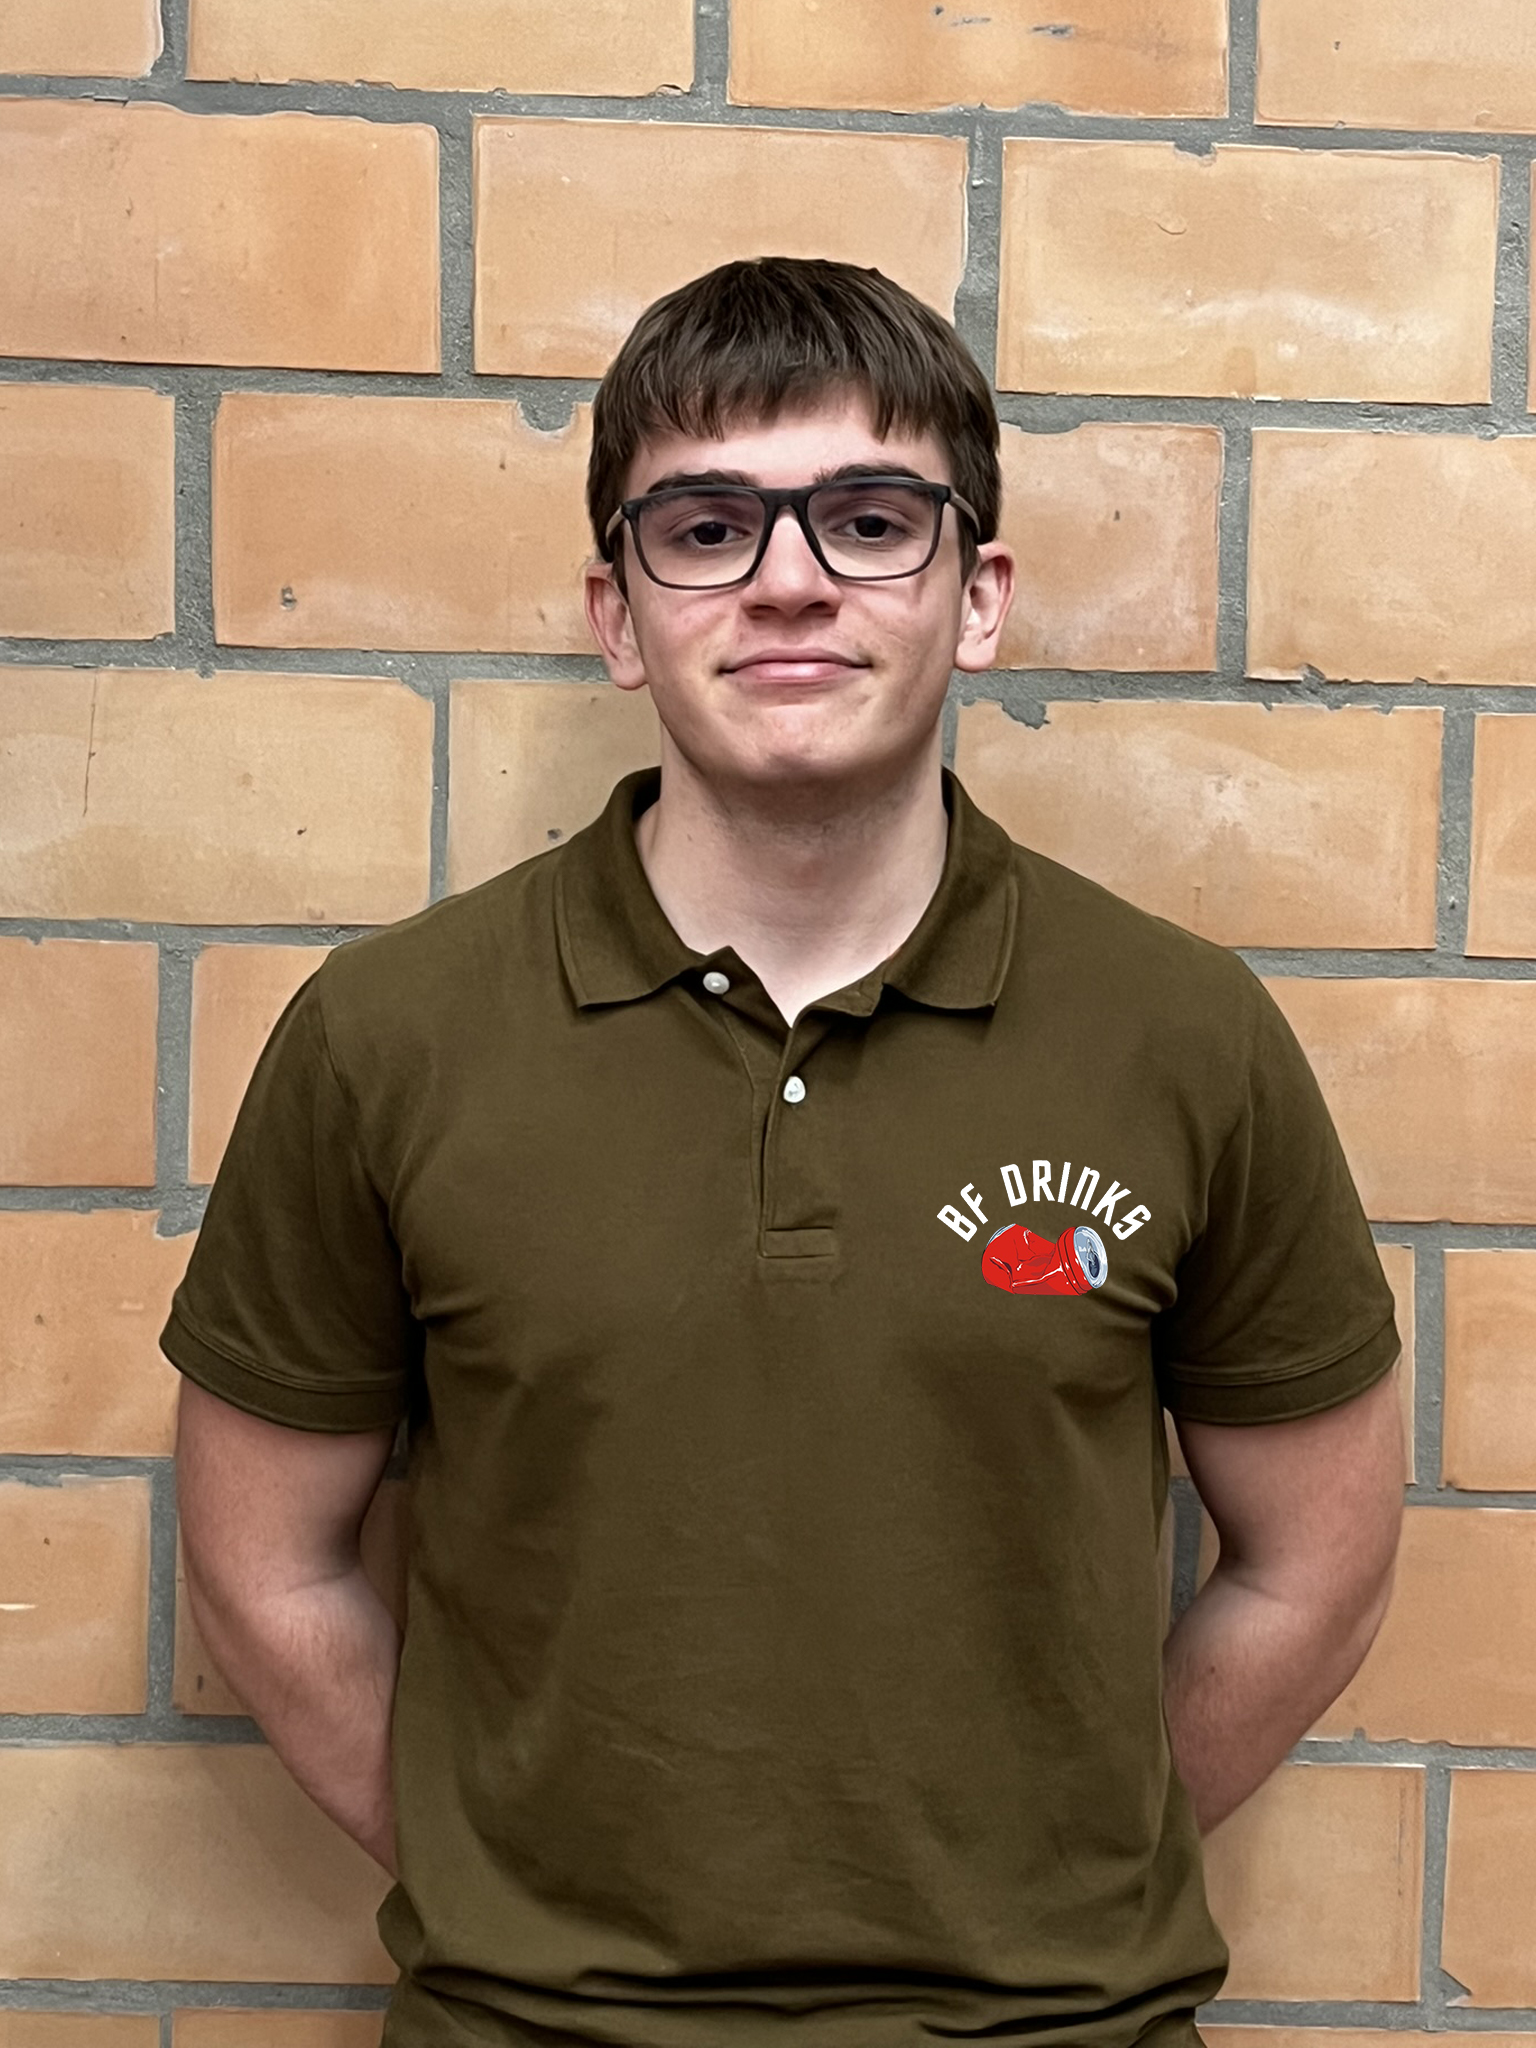
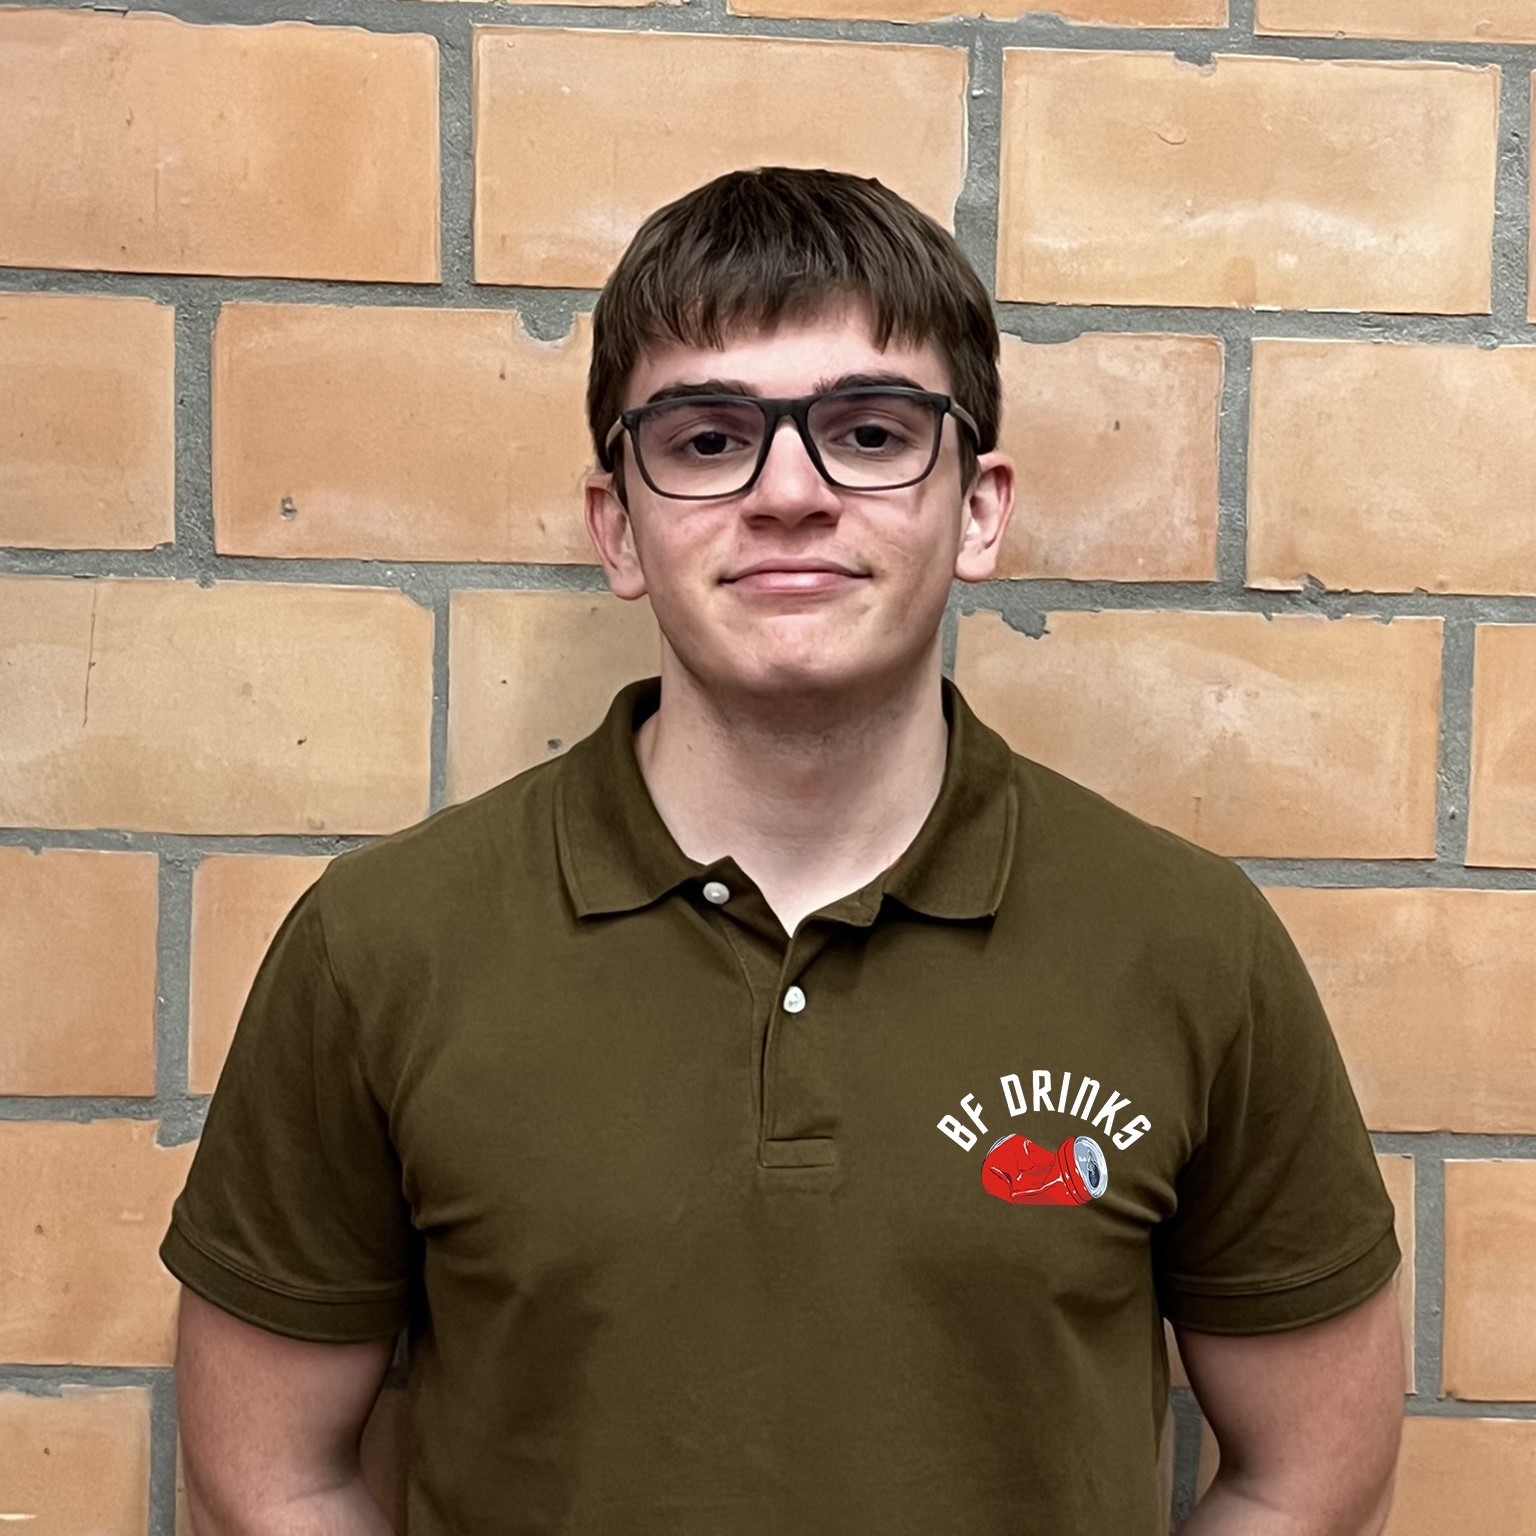
aggiunte immagini a founders

diff --git a/chi_siamo.php b/chi_siamo.php
@@ -14,22 +14,22 @@ if (check_login(isAdmin())) {
             <h2>Meet Our Founders</h2>
             <div class="single-founders">
                 <div class="founder">
-                    <img src="./images/img-founders/ricky.jpg" alt="Founder 1">
+                    <img src="./images/img-founders/riccardo-marchesini.jpg" alt="Founder 1">
                     <h3>Riccardo Marchesini</h3>
                     <p>Co-Founder & CEO</p>
                 </div>
                 <div class="founder">
-                    <img src="./images/img-founders/nicco.jpg" alt="Founder 2">
+                    <img src="./images/img-founders/niccolo-marchesini.jpg" alt="Founder 2">
                     <h3>Niccolò Marchesini</h3>
                     <p>Co-Founder & COO</p>
                 </div>
                 <div class="founder">
-                    <img src="./images/img-founders/deme.png" alt="Founder 3">
+                    <img src="./images/img-founders/davide-demelas.jpg" alt="Founder 3">
                     <h3>Davide Demélas</h3>
                     <p>Co-Founder & CFO</p>
                 </div>
                 <div class="founder">
-                    <img src="./images/img-founders/gambero.jpg" alt="Founder 4">
+                    <img src="./images/img-founders/davide-gamberini.jpg" alt="Founder 4">
                     <h3>Davide Gamberini</h3>
                     <p>Co-Founder & CMO</p>
                 </div>

diff --git a/carrello.php b/carrello.php
@@ -47,8 +47,8 @@ if (isset($_SESSION['logged']) and $_SESSION['logged']) {
                     </form>
                 </div>';
     } else {
-        echo "<h1>Your cart is empty!</h1>"
-        . "<a href=\"catalogo_prodotti.php\"> GO TO CATALOGUE</a>";
+        echo "<div class=\"empty-cart\"><h1>Your cart is empty!</h1>"
+        . "<a href=\"catalogo_prodotti.php\"> GO TO CATALOGUE</a></div>";
     }
     echo "</div>";
 } else
